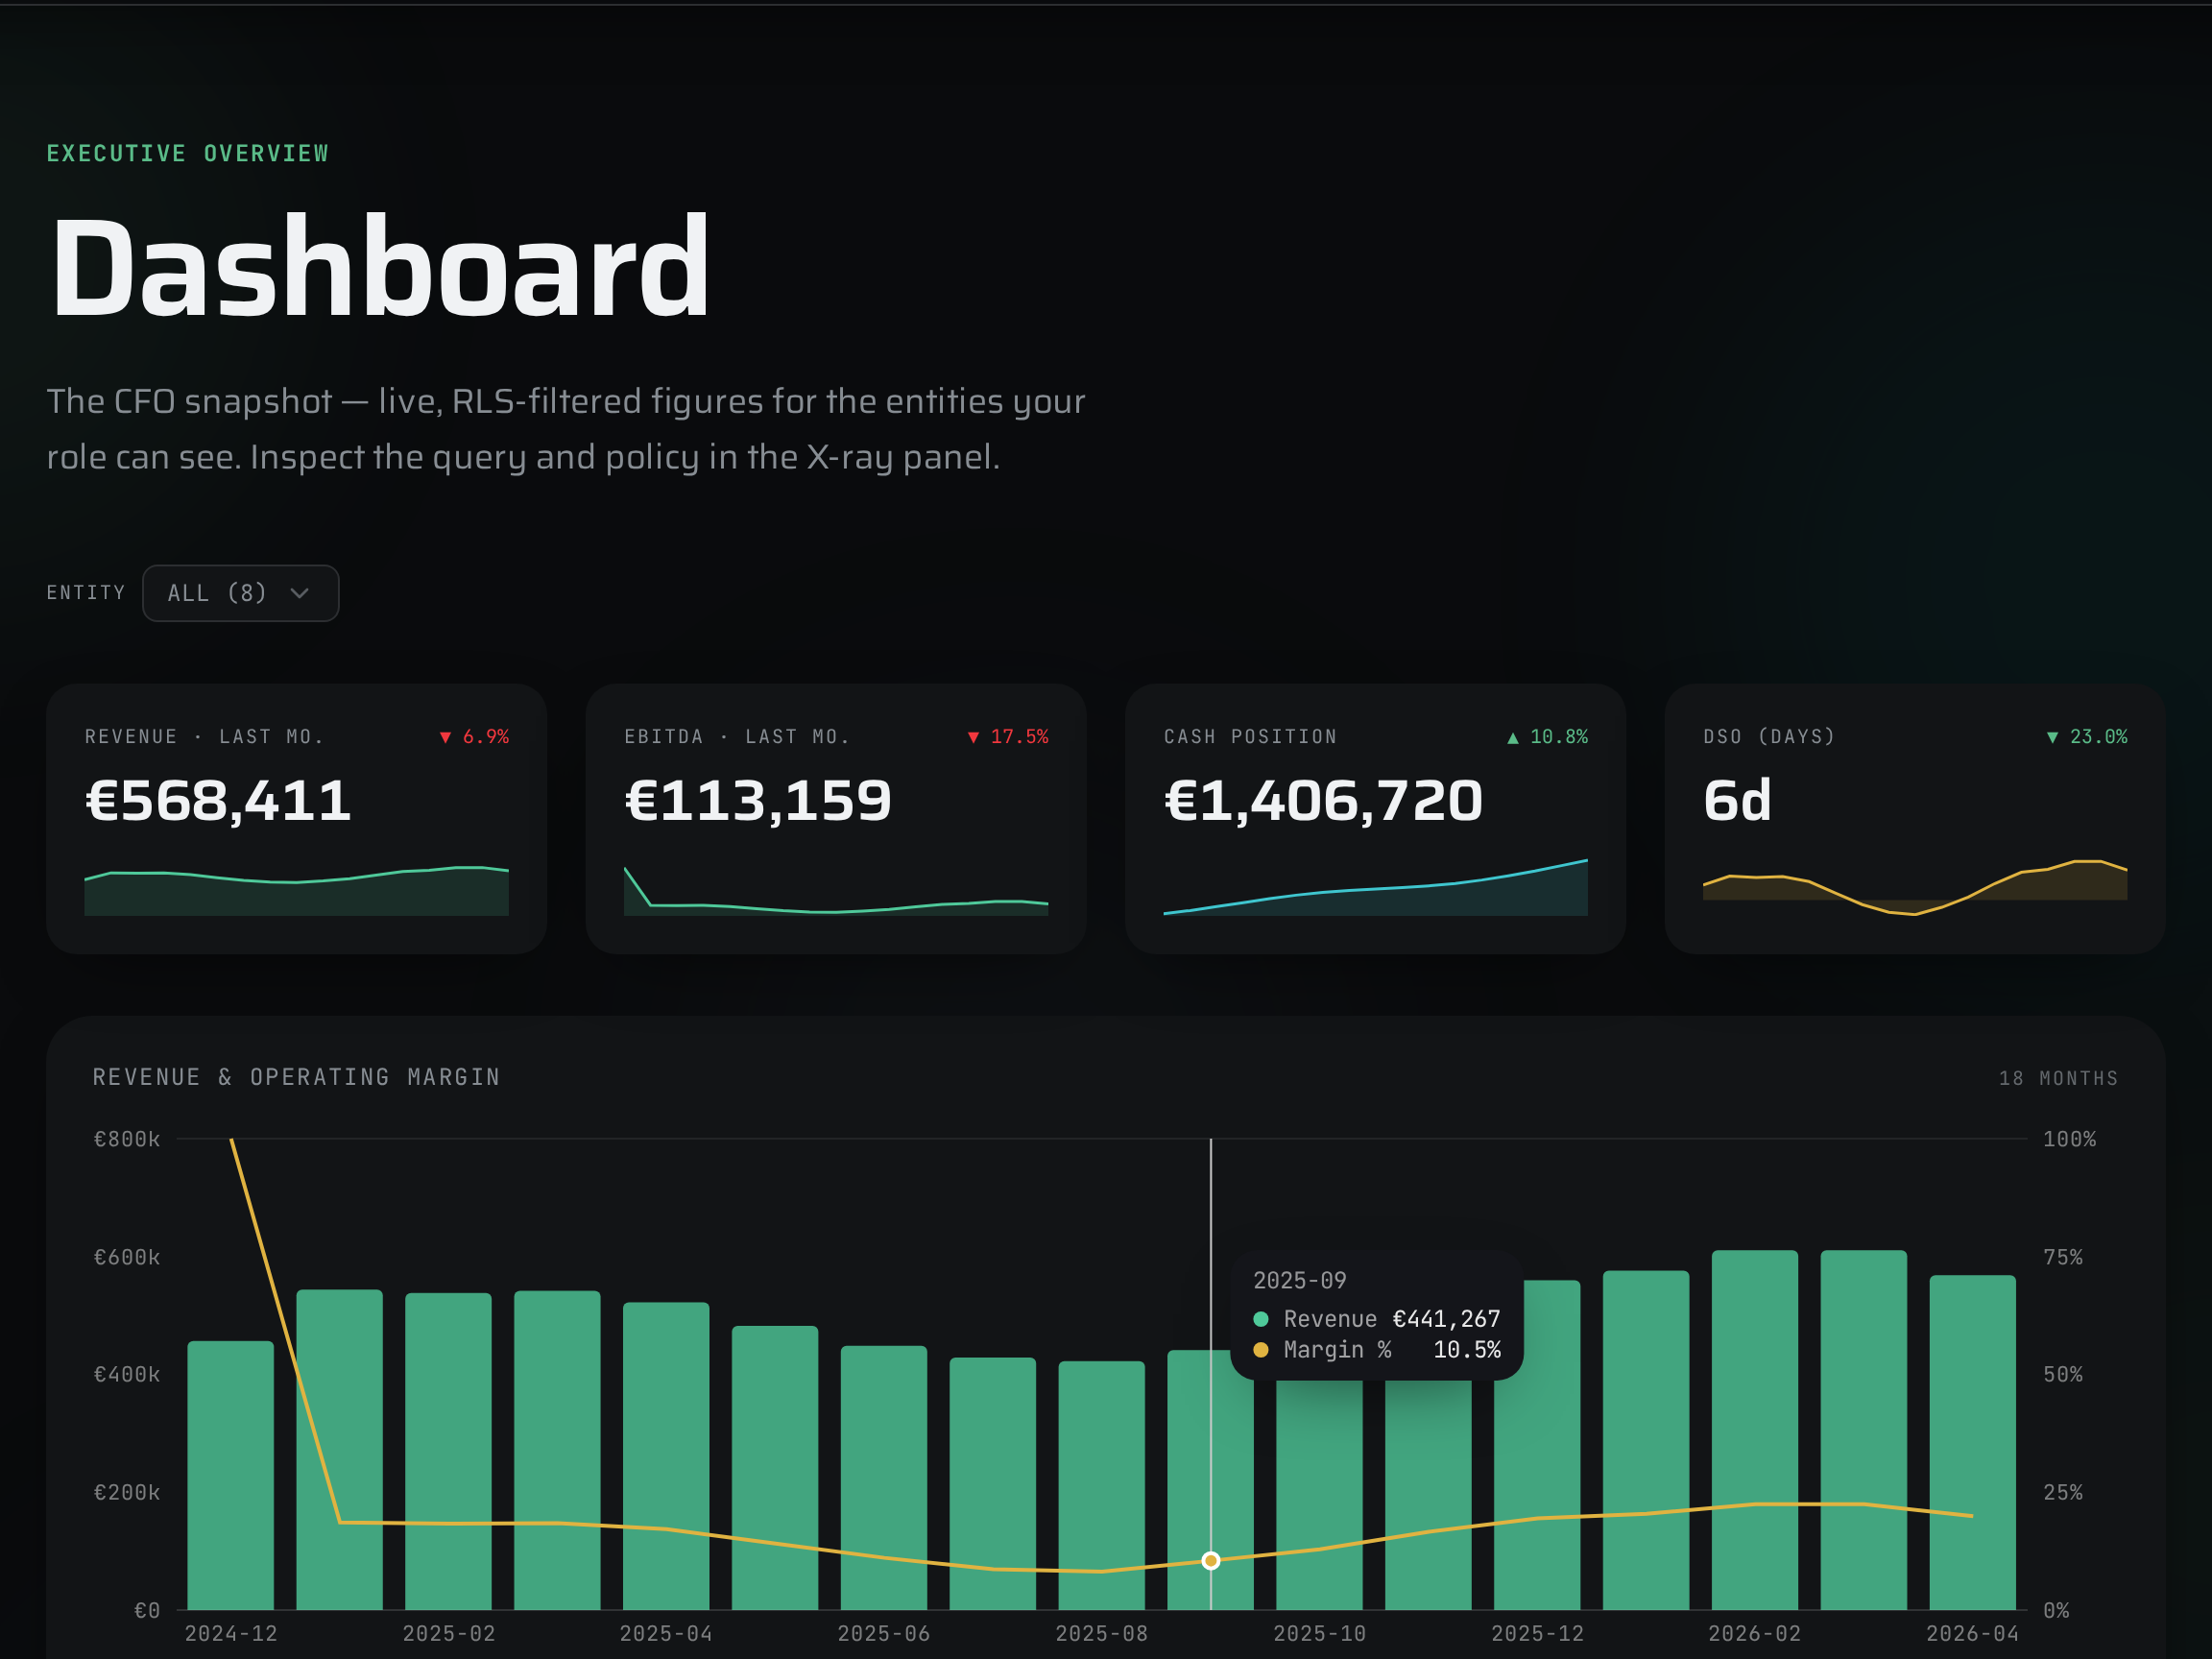
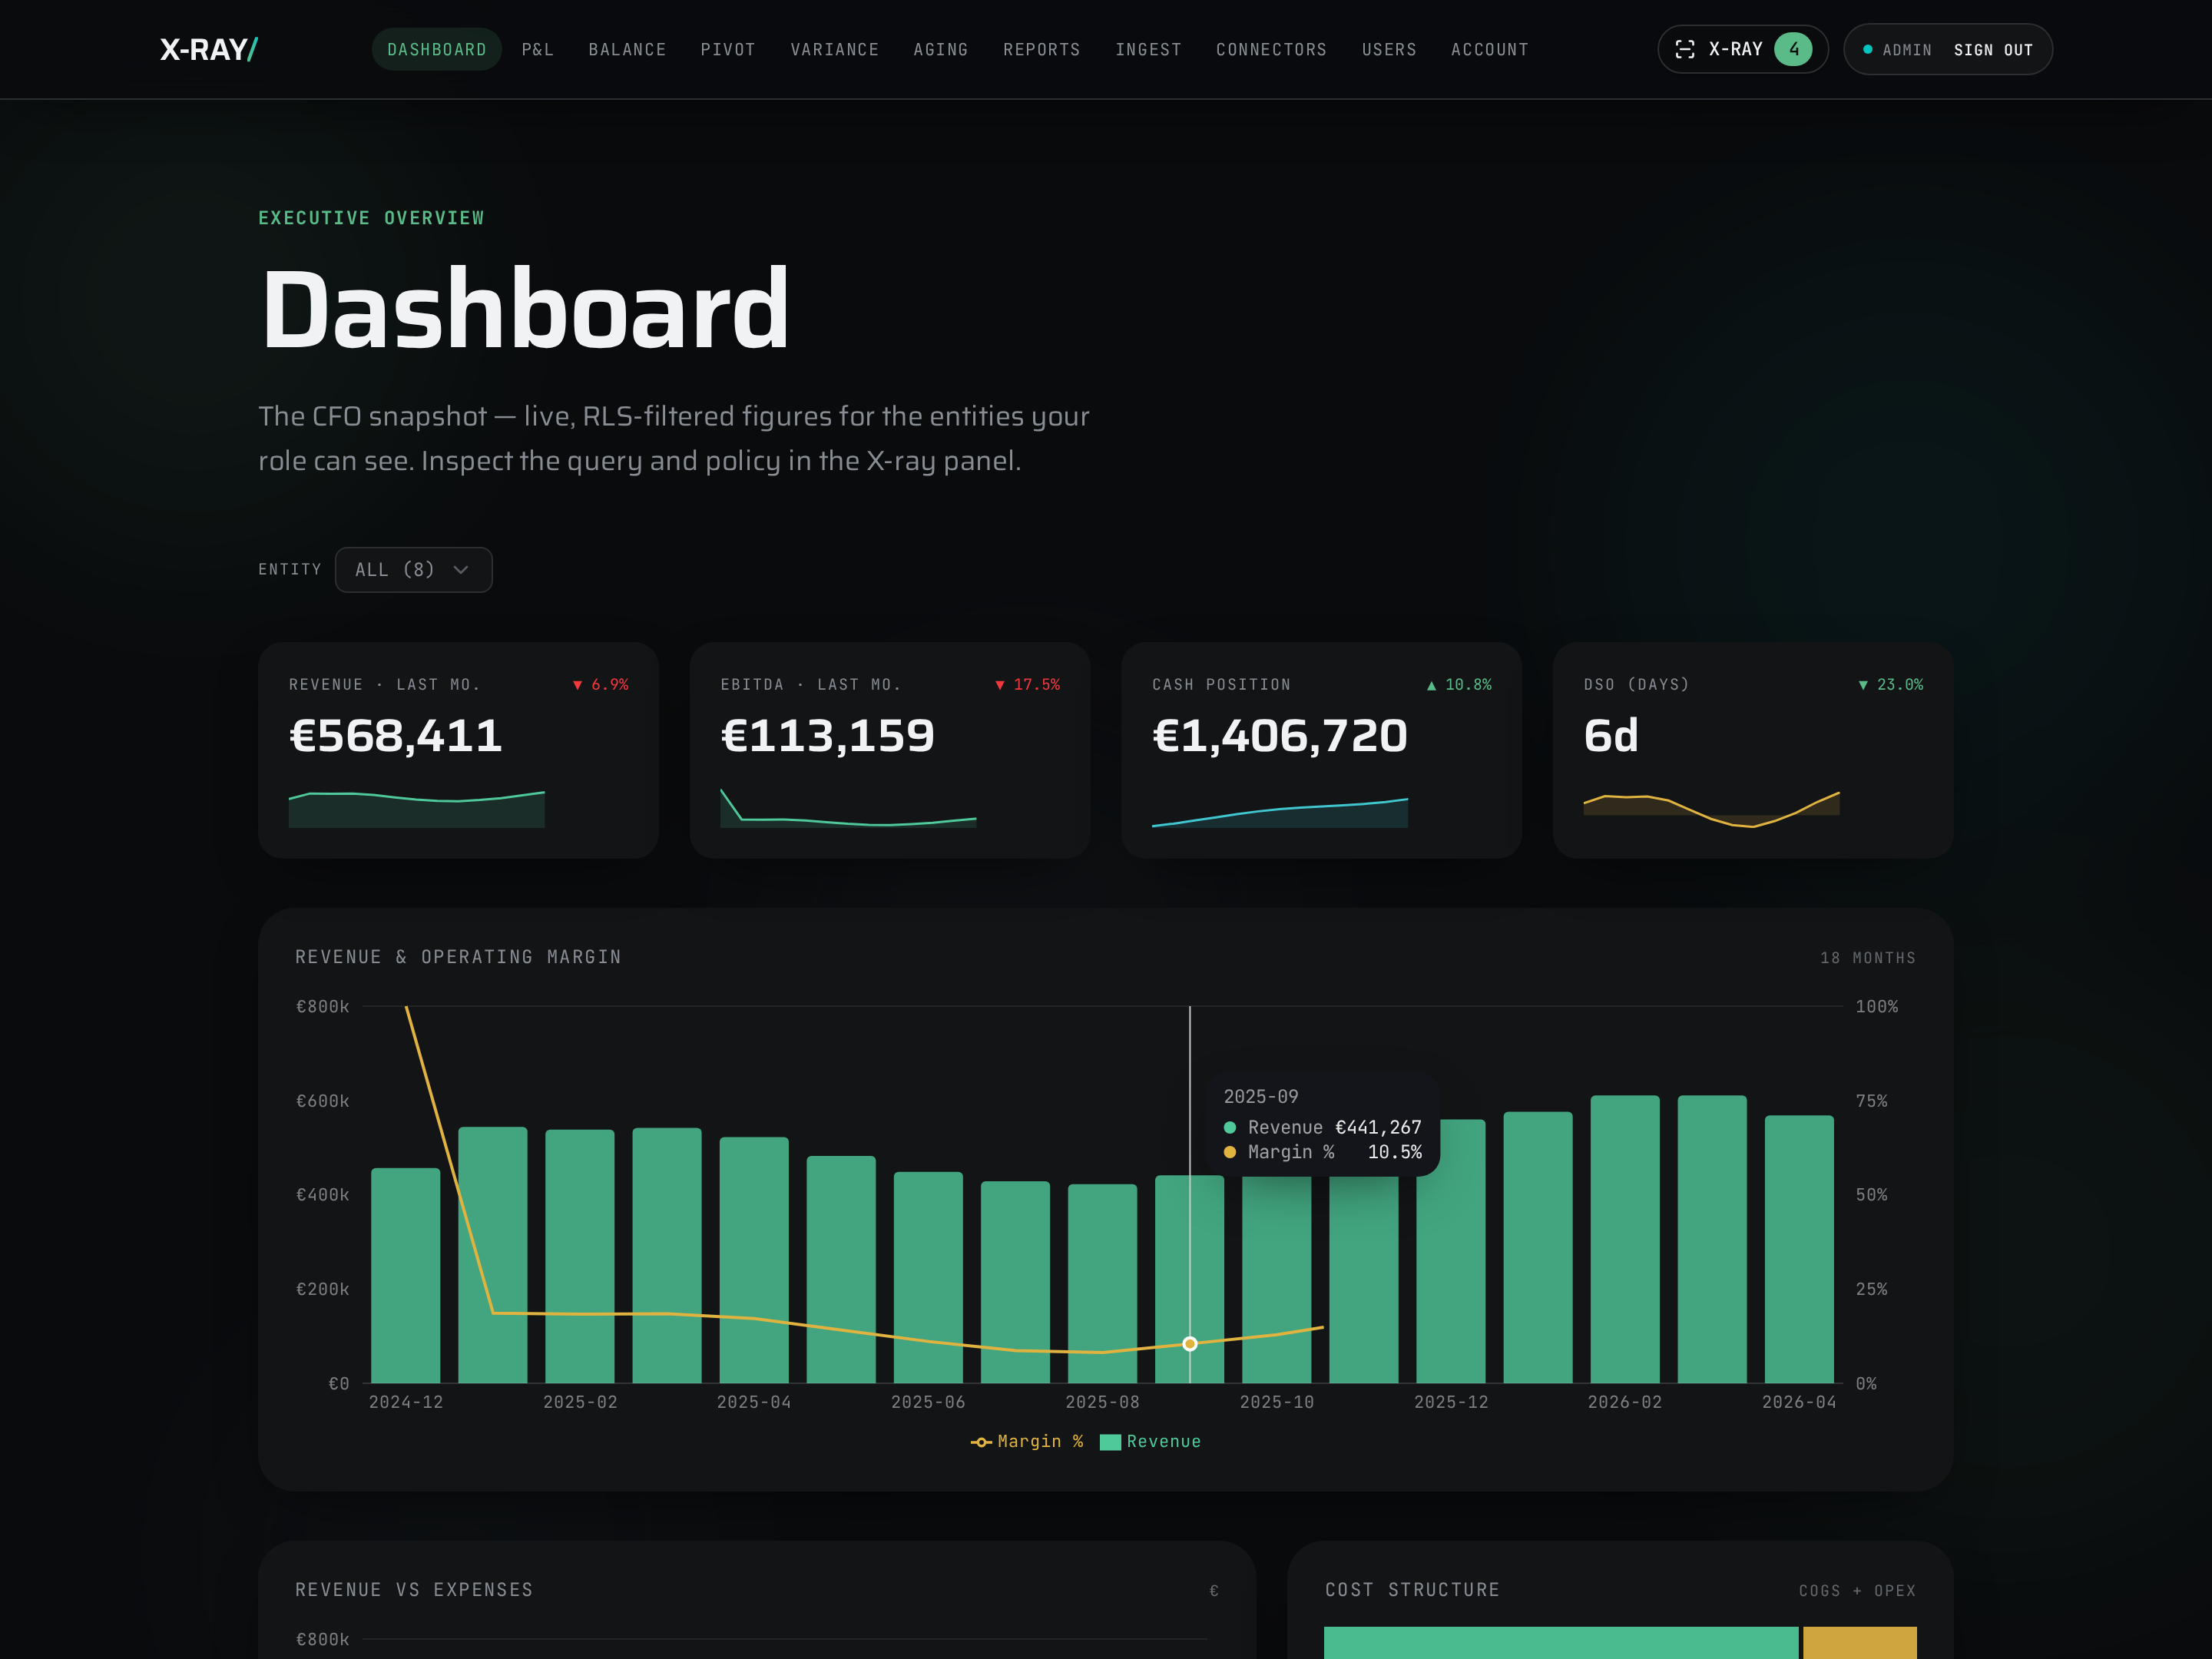
Showcase: full-window screenshots so nothing is chopped
Replace the region-clipped panels with complete 1440×1080 browser-window
captures — the full app window per station, so no title or table is cut
mid-content. Fixes station 03, which had a horizontally-offset clip that sliced
the "Dashboard" heading into "hboard". PanelShot keeps the 4:3 reserved box.

Claude-Session: https://claude.ai/code/session_01JYT2ircUWQg2StGSQdzjBo

diff --git a/src/components/showcase/PanelShot.tsx b/src/components/showcase/PanelShot.tsx
@@ -5,8 +5,8 @@
  * actual product with real data. Framed in a soft dark-green console shell so the
  * near-black screenshots pop against the lime page and stay on-brand.
  *
- * All three captures share a 4:3 ratio and show the full top of each page (no
- * tight cropping); the box reserves that space via aspect-ratio (+ intrinsic
+ * Each is a full 1440×1080 browser-window capture (4:3) — the whole app window,
+ * nothing chopped. The box reserves that ratio via aspect-ratio (+ intrinsic
  * width/height) so the panel never collapses to a sliver while the image loads.
  */
 export function PanelShot({ src, alt }: { src: string; alt: string }) {
@@ -15,8 +15,8 @@ export function PanelShot({ src, alt }: { src: string; alt: string }) {
       <img
         src={src}
         alt={alt}
-        width={2304}
-        height={1728}
+        width={2880}
+        height={2160}
         decoding="async"
         className="block aspect-[4/3] w-full object-cover object-top"
       />